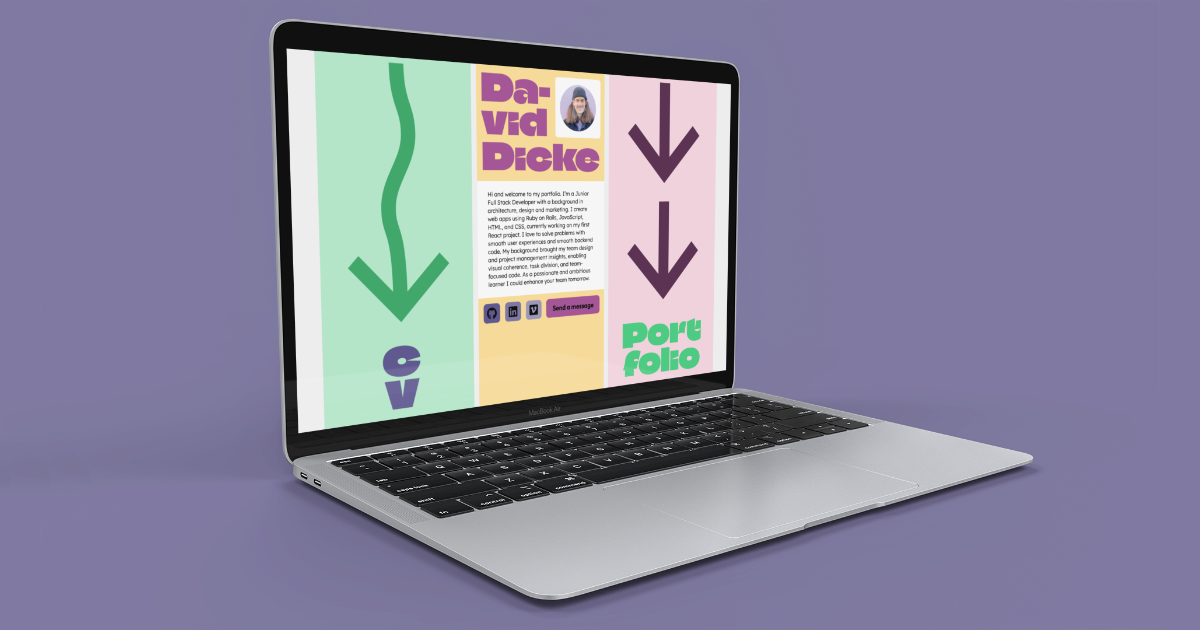
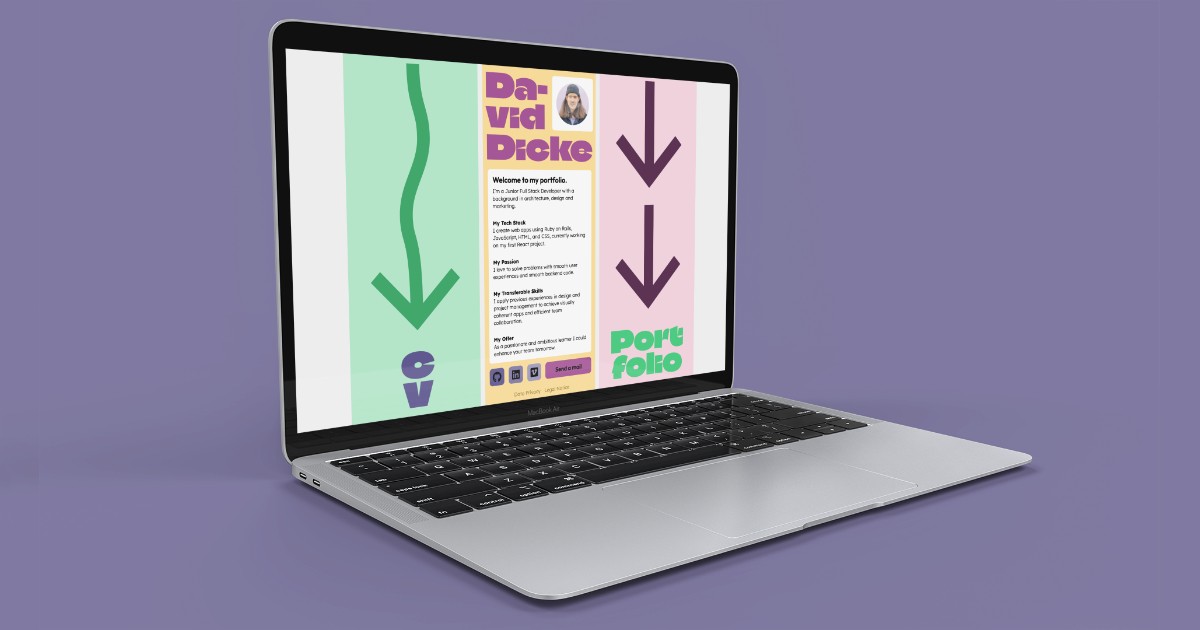
feedback round 1: mobile bugs, intro text, gif image, orthography

diff --git a/app/javascript/application.js b/app/javascript/application.js
@@ -6,9 +6,14 @@ import "bootstrap"
 
 // Responsiveness
 
-
+const heroSectionExpandsVH = () => {
+  const hero = document.querySelector('.intro').parentNode;
+  console.log(hero.scrollHeight, hero.clientHeight);
+  return hero.scrollHeight > hero.clientHeight;
+}
 
 const responsiveness = () => {
+  console.log("checking for responsiveness");
   if (window.innerWidth < 1400 && window.innerHeight > window.innerWidth) {
     // Remove the bootstrap modal toggle attribute
     document.querySelectorAll('.carousel-inner').forEach((element) => {
@@ -20,7 +25,8 @@ const responsiveness = () => {
       element.setAttribute('data-bs-toggle', 'modal');
     });
   }
-  if (window.innerHeight < 700) {
+  // If the screen is too small, move the cta-links to the top of the hero-section
+  if (heroSectionExpandsVH()) {
     // Put cta-links on top of intro text and make hero-section height 100%
     const cta = document.querySelector('.cta-links');
     const intro = document.querySelector('.intro');
@@ -35,13 +41,18 @@ const responsiveness = () => {
     const hero = document.querySelector('.intro').parentNode;
     document.querySelector('.cta-links').remove();
     hero.appendChild(cta);
-    hero.style.height = '100vh';
+    hero.style.removeProperty('height');
   }
 };
+
+window.addEventListener('load', () => {
+  responsiveness();
+});
 
 window.addEventListener('resize', () => {
   responsiveness();
 });
-ScreenOrientation.addEventListener('change', () => {
+// Listen for orientation changes
+screen.orientation.addEventListener('change', () => {
   responsiveness();
 });

diff --git a/app/assets/stylesheets/components/_columns.scss b/app/assets/stylesheets/components/_columns.scss
@@ -24,7 +24,7 @@
   background-color: $raspberry-red-100;
 }
 .column-start {
-  overflow: hidden;
+  // overflow: hidden;
   scrollbar-width: none;
   background-color: $curry-yellow-300;
   h1 {
@@ -32,18 +32,31 @@
     text-align: start;
   }
   .hero-section {
-    height: 90dvh;
+    height: calc(100dvh - 3rem - (1.2 * 1rem));
   }
 }
 .intro {
-  border-radius: 0rem;
+  border-radius: 0.5rem;
   color: black;
   background-color: white;
-  padding: 1.5rem 2rem;
-  margin: 0 -1rem;
+  padding: 1rem;
+  margin: 0;
+  display:flex;
+  flex-direction: column;
+  justify-content: space-between;
+  flex-grow: 1;
   p {
     margin: 0;
+
   }
+}
+.paragraph-desktop {
+  display: block;
+}
+.subtitle-desktop {
+  font-weight: bold;
+  display: block;
+  margin-top: 1rem;
 }
 .cta-links {
   display: flex;
@@ -139,7 +152,7 @@
       grid-column: 1 / span 1;
       margin: 0.375rem 0 0 0 ;
       border-radius: 0.5rem;
-      font-size: 2.25vh;
+      font-size: 1.8vh;
       line-height: 120%;
     }
     .column-start .cta-links {

diff --git a/app/assets/stylesheets/components/_main-grid.scss b/app/assets/stylesheets/components/_main-grid.scss
@@ -1,13 +1,19 @@
 .main-grid {
   display: grid;
-  grid-template-columns: repeat(3, 26.55rem);
+  grid-template-columns: repeat(3, 26rem);
   grid-gap: 1rem;
-  max-width: 1300px;
+  max-width: 80rem;
   margin: 0 auto;
   height: 100dvh;
 }
 @media (max-width: 1400px) {
   .main-grid {
     grid-template-columns: 1fr;
+  }
+}
+@media (min-width: 3000px) {
+  .main-grid {
+    grid-template-columns: 26rem 26rem 52rem;
+    max-width: 104rem;
   }
 }

diff --git a/app/assets/stylesheets/components/_title.scss b/app/assets/stylesheets/components/_title.scss
@@ -56,7 +56,8 @@
     background-image: asset-url('hello.gif');
   }
   .static-img {
-    background-image: asset-url('25_01_02_Profile.jpg');
+    // background-image: asset-url('25_01_02_Profile.jpg');
+    background-image: asset-url('talking.gif');
   }
 }
 .play-btn-container {

diff --git a/app/assets/stylesheets/application.scss b/app/assets/stylesheets/application.scss
@@ -84,3 +84,15 @@ small {
 	text-decoration: none;
 	text-transform: none;
 }
+@media (min-width: 2000px) {
+  // Redefien rem value
+  html {
+    font-size: 125%;
+  }
+}
+@media (min-width: 3000px) {
+  // Redefien rem value
+  html {
+    font-size: 150%;
+  }
+}
